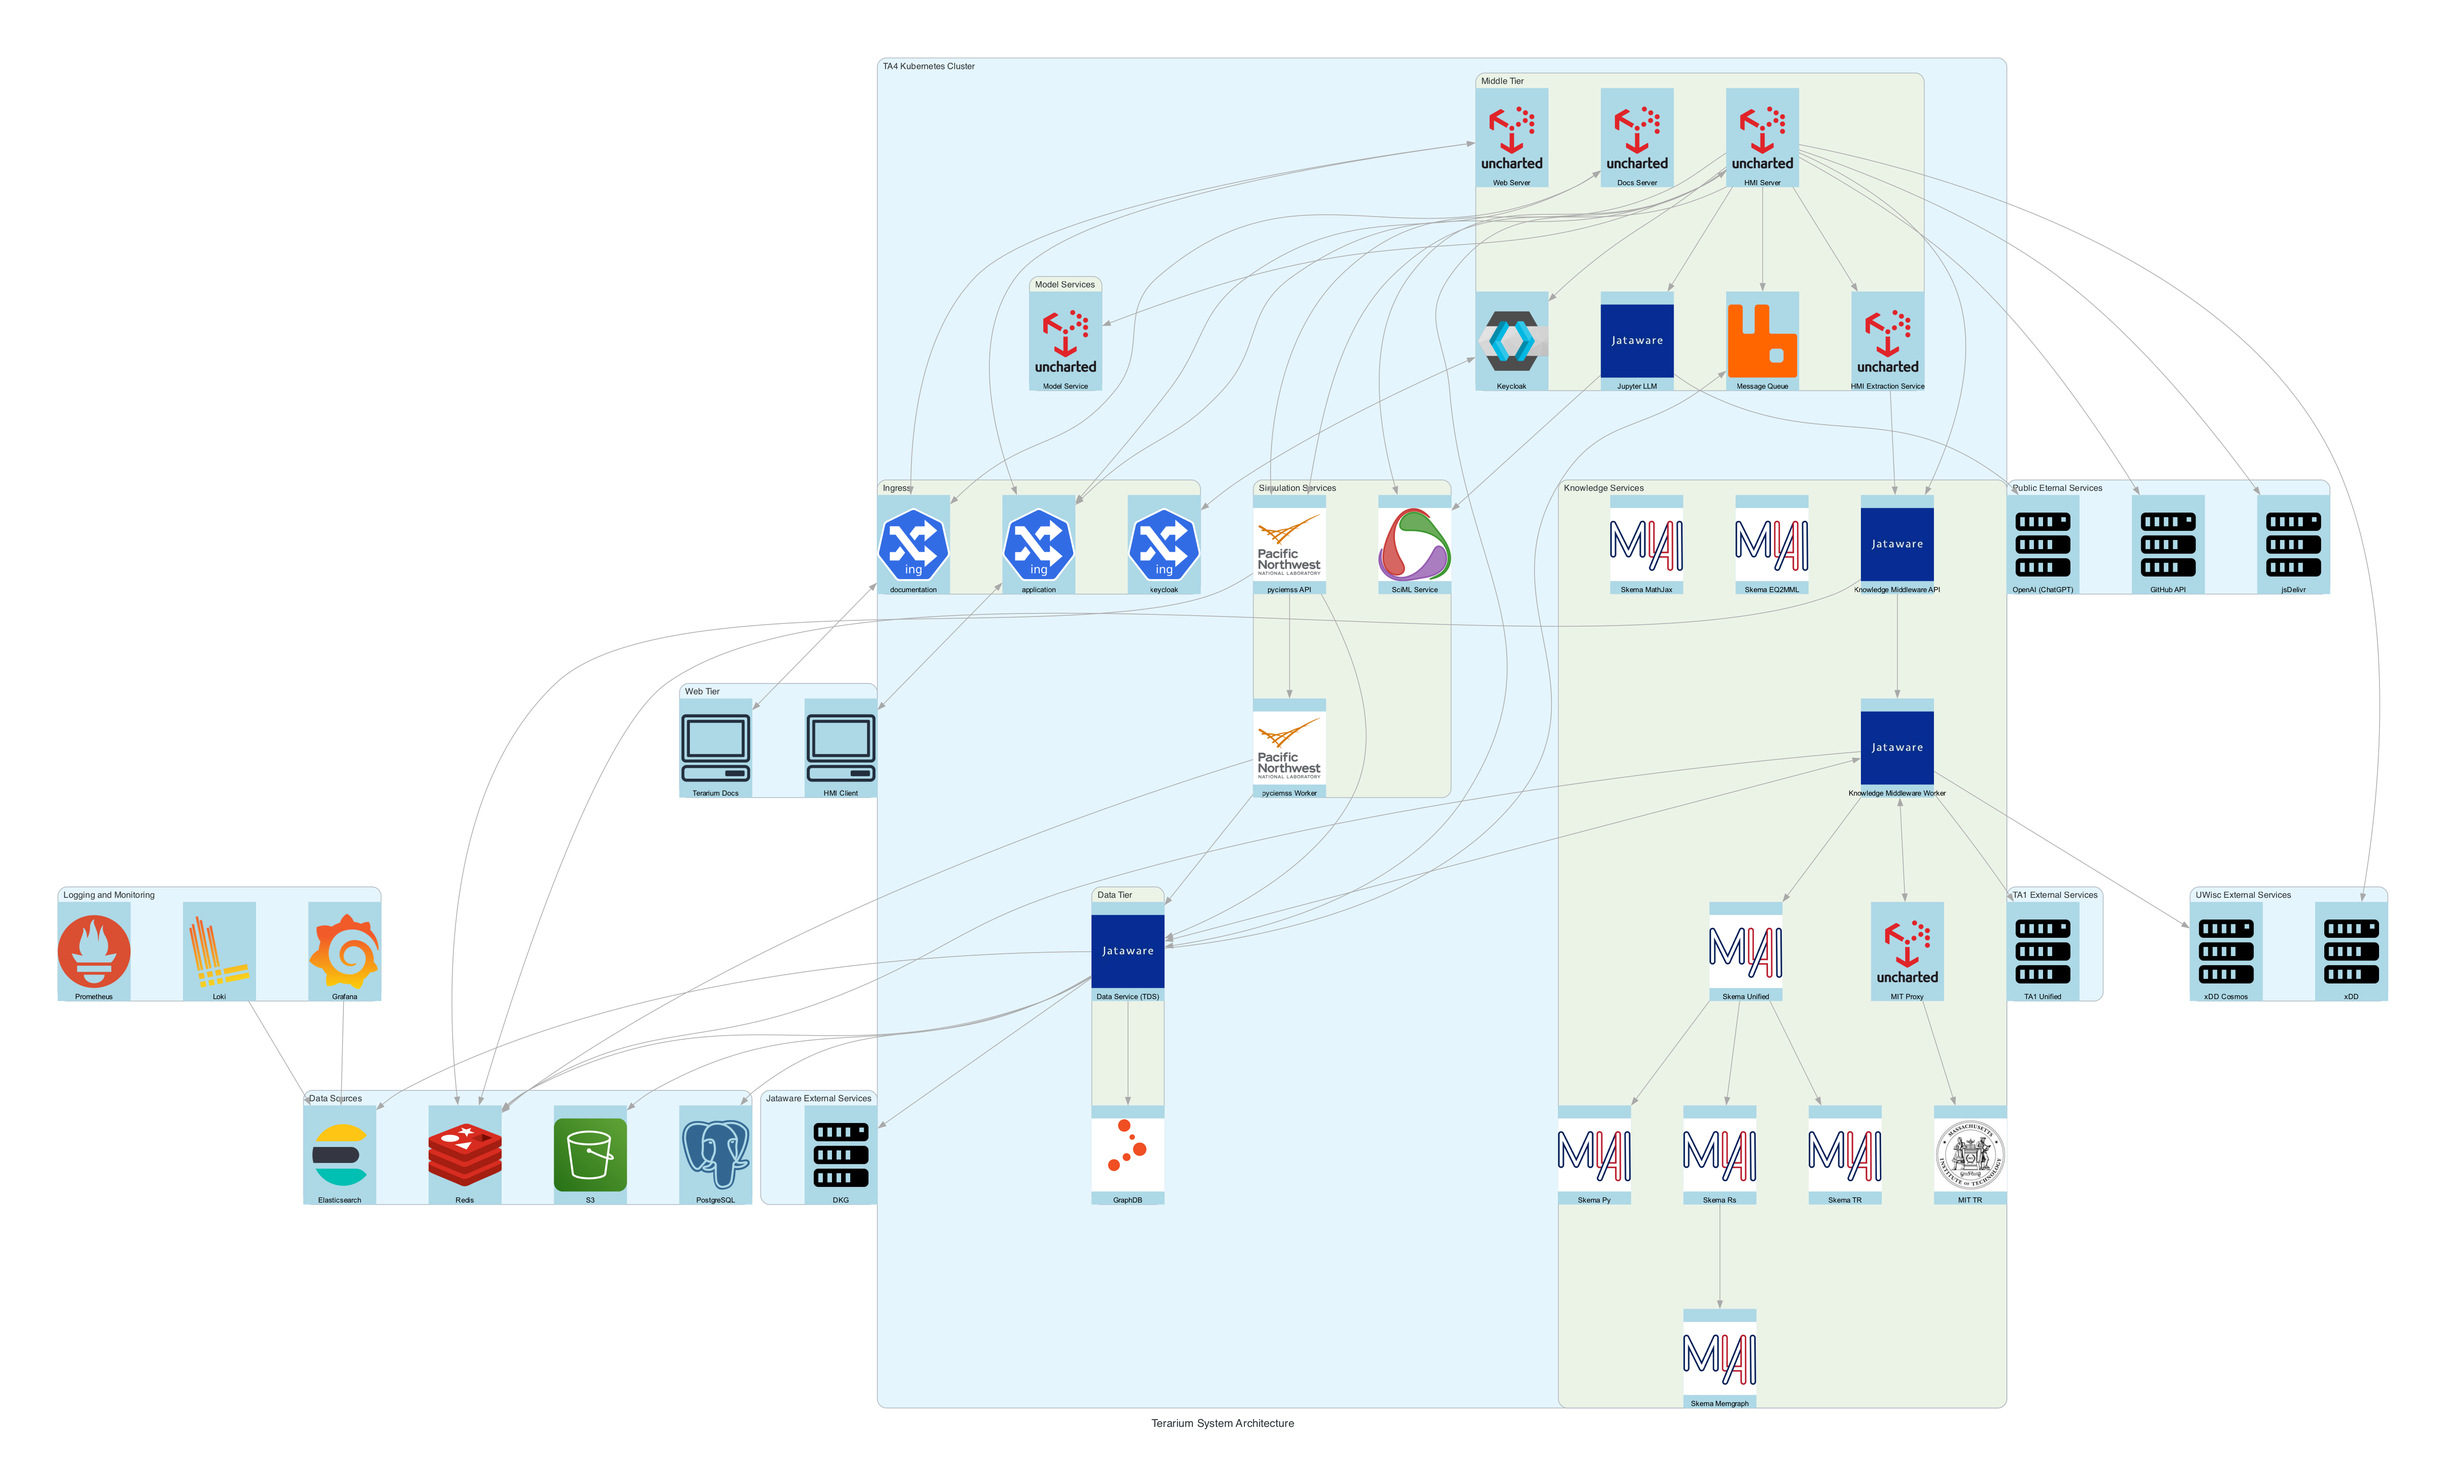
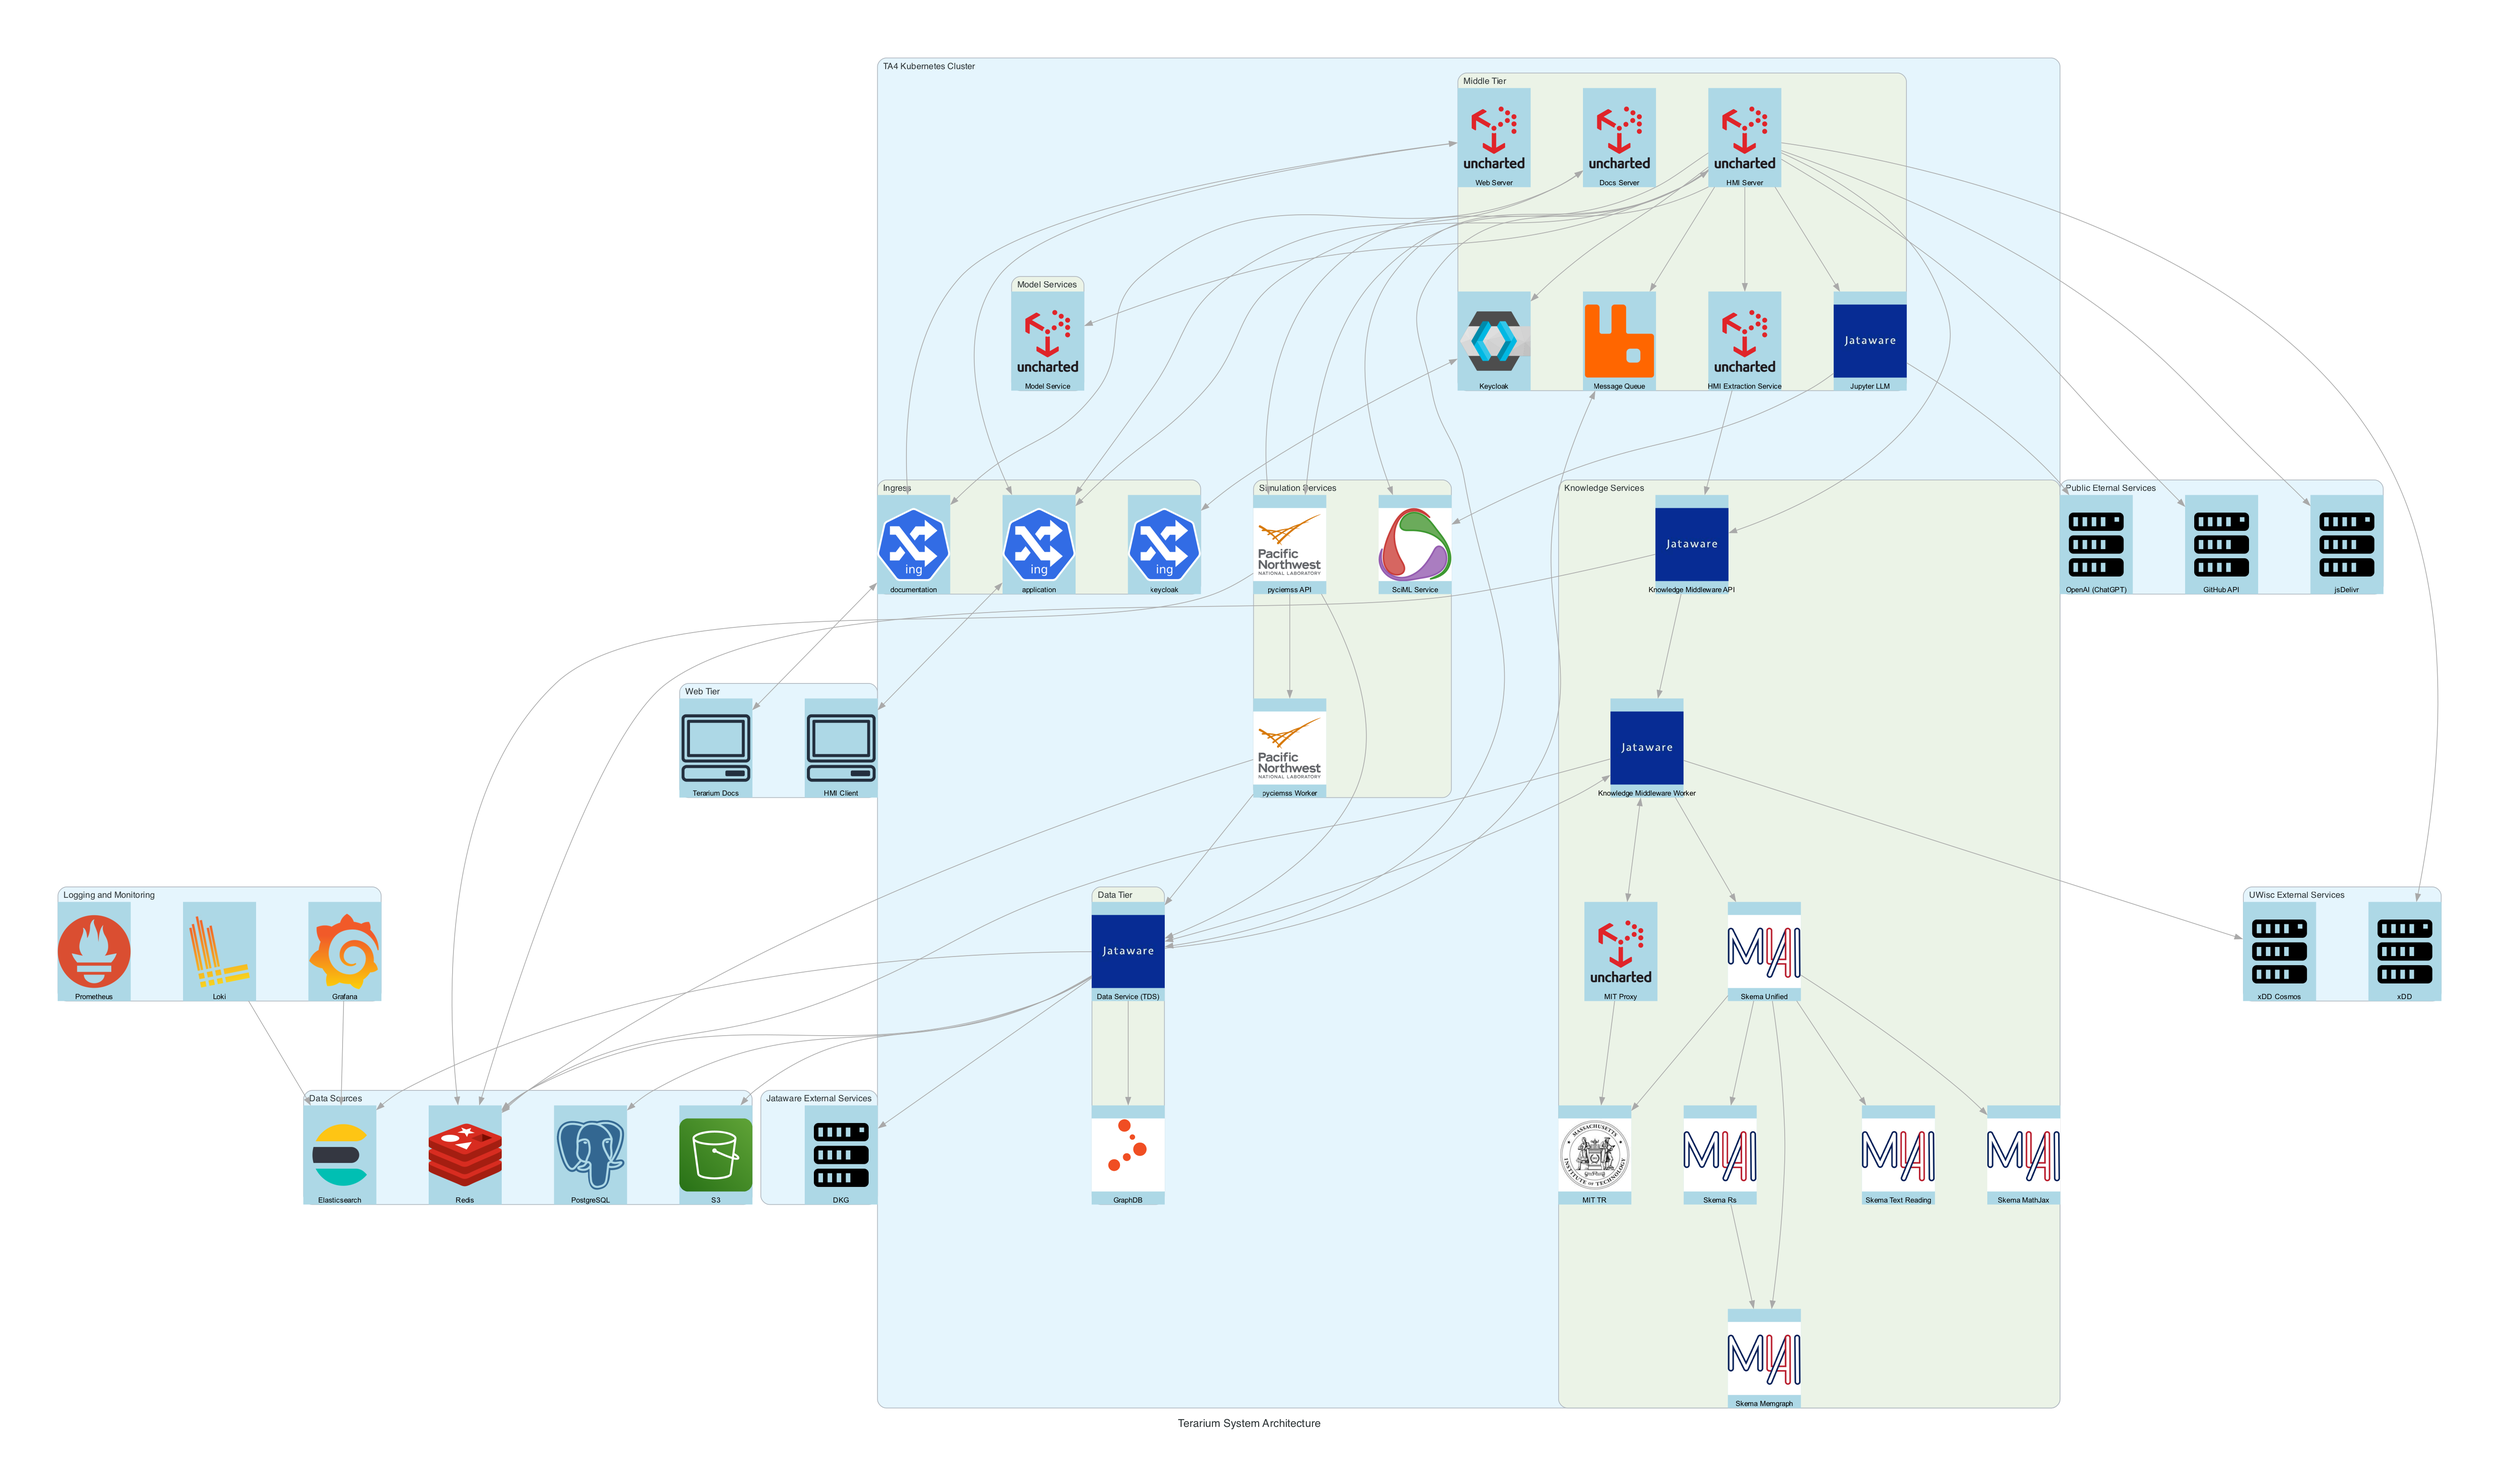
update arch

diff --git a/architecture/system-arch.py b/architecture/system-arch.py
@@ -93,10 +93,9 @@ with Diagram("Terarium System Architecture", show=True,
 			mit_proxy = Custom("MIT Proxy", "./resources/uncharted.png")
 			mit_tr = Custom("MIT TR", "./resources/mit.jpeg")
 			skema_unified = Custom("Skema Unified", "./resources/ml4ai.png")
-			skema_py = Custom("Skema Py", "./resources/ml4ai.png")
 			skema_rs = Custom("Skema Rs", "./resources/ml4ai.png")
-			skema_tr = Custom("Skema TR", "./resources/ml4ai.png")
-			skema_eq2mml = Custom("Skema EQ2MML", "./resources/ml4ai.png")
+			skema_text_reading = Custom("Skema Text Reading", "./resources/ml4ai.png")
+			#skema_eq2mml = Custom("Skema EQ2MML", "./resources/ml4ai.png")
 			skema_mathjax = Custom("Skema MathJax", "./resources/ml4ai.png")
 			skema_memgraph = Custom("Skema Memgraph", "./resources/ml4ai.png")
 
@@ -116,9 +115,6 @@ with Diagram("Terarium System Architecture", show=True,
 	with Cluster("UWisc External Services"):
 		cosmos = Server("xDD Cosmos")
 		xdd = Server("xDD")
-
-	with Cluster("TA1 External Services"):
-		skema_unified_external = Server("TA1 Unified")
 
 	with Cluster("Web Tier"):
 		hmi_client = Client("HMI Client")
@@ -151,7 +147,6 @@ with Diagram("Terarium System Architecture", show=True,
 	knowledge_middleware_worker >> Edge() >> cosmos
 	knowledge_middleware_worker >> Edge() >> redis
 	knowledge_middleware_worker >> Edge() >> skema_unified
-	knowledge_middleware_worker >> Edge() >> skema_unified_external
 	llm >> Edge() >> openai
 	llm >> Edge() >> sciml_service
 	loki >> Edge() >> es
@@ -162,9 +157,11 @@ with Diagram("Terarium System Architecture", show=True,
 	pyciemss_worker >> Edge() >> redis
 	pyciemss_worker >> Edge() >> tds
 	skema_rs >> Edge() >> skema_memgraph
-	skema_unified >> Edge() >> skema_py
+	skema_unified >> Edge() >> mit_tr
 	skema_unified >> Edge() >> skema_rs
-	skema_unified >> Edge() >> skema_tr
+	skema_unified >> Edge() >> skema_text_reading
+	skema_unified >> Edge() >> skema_mathjax
+	skema_unified >> Edge() >> skema_memgraph
 	tds >> Edge() >> dkg
 	tds >> Edge() >> es
 	tds >> Edge() >> graphdb
